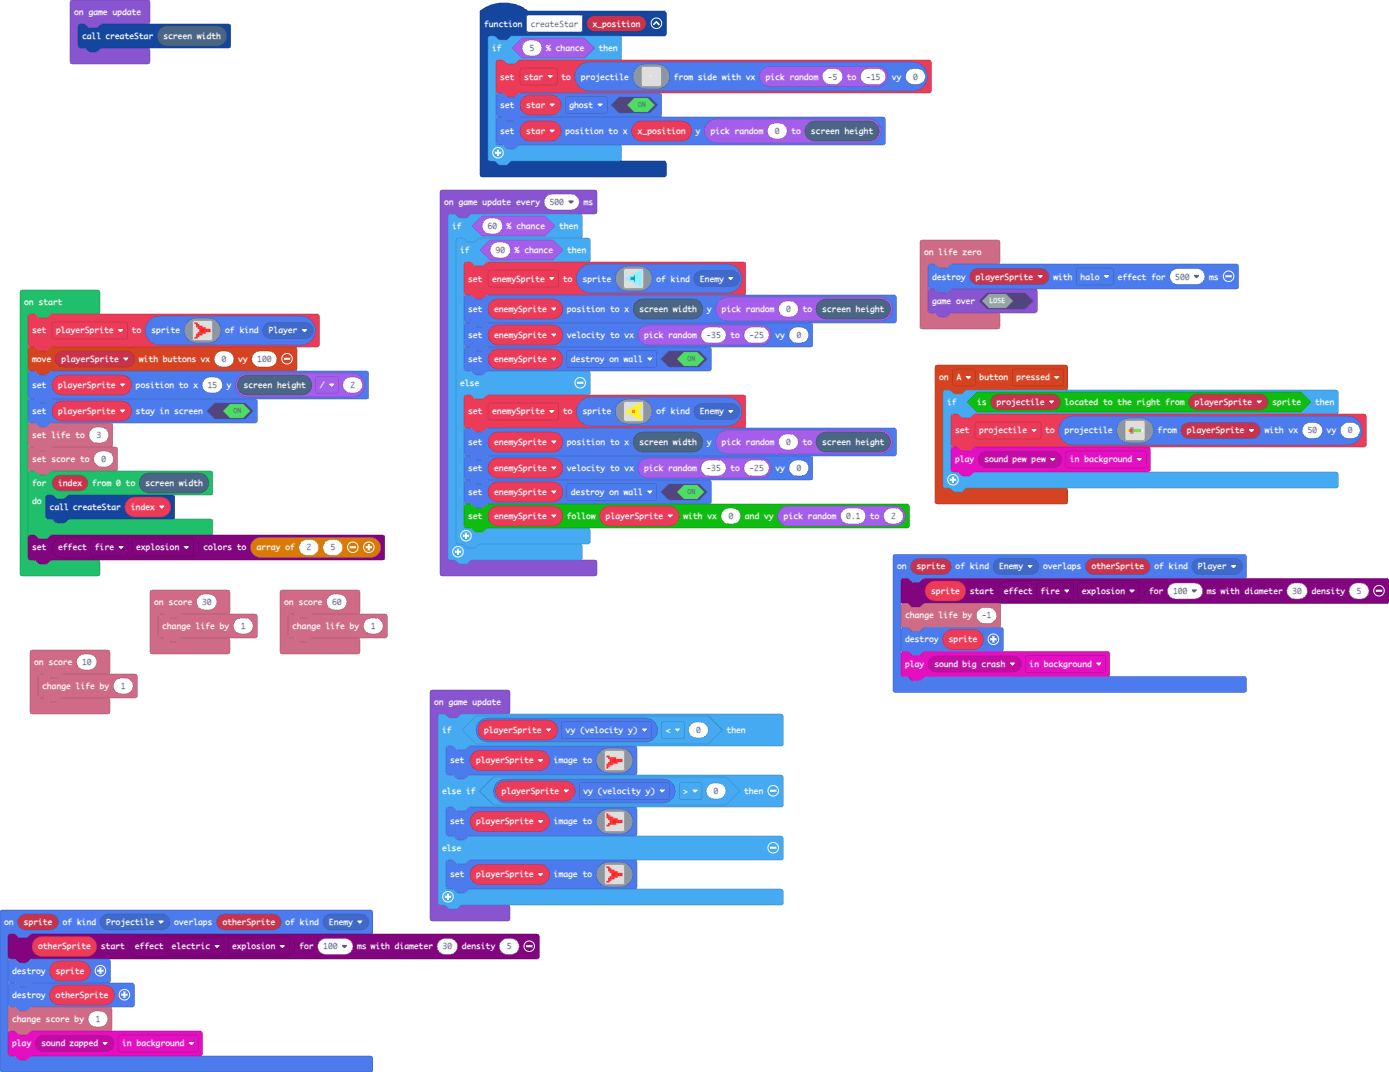
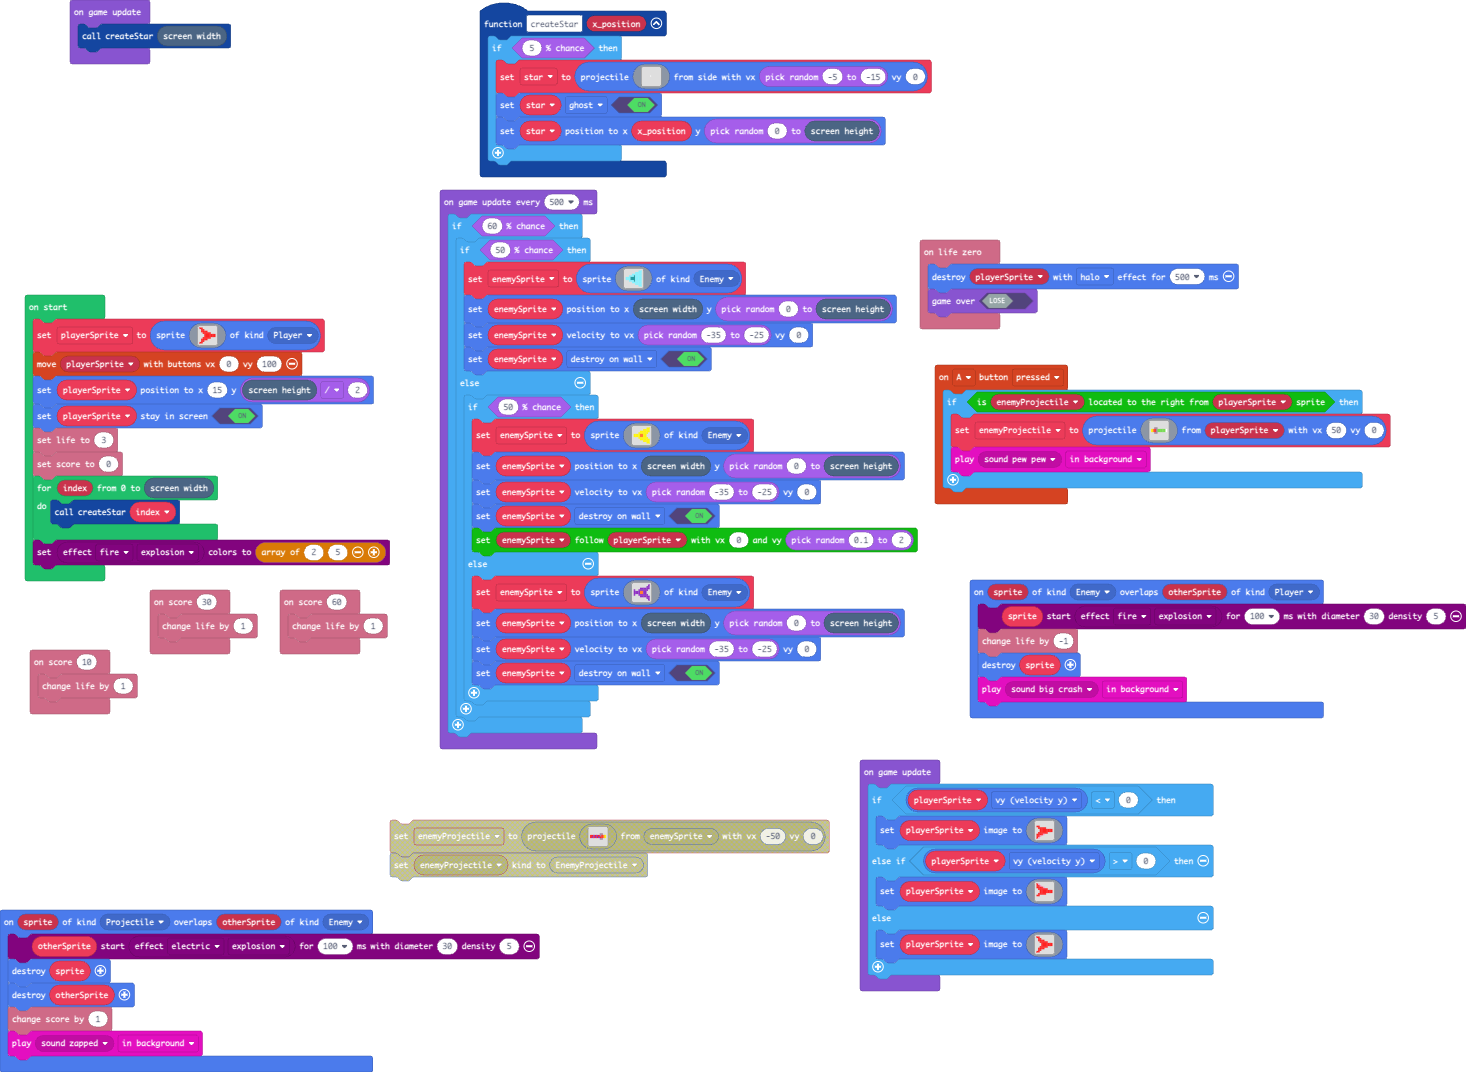
Working on runEvery

Changed region(s): [[0.0, 0.0, 1.0, 0.9851], [0.031, 0.0, 0.1857, 0.0616], [0.2477, 0.9851, 0.2786, 1.0]]

diff --git a/main.ts b/main.ts
@@ -1,6 +1,9 @@
+namespace SpriteKind {
+    export const EnemyProjectile = SpriteKind.create()
+}
 controller.A.onEvent(ControllerButtonEvent.Pressed, function () {
-    if (custom.isRightFrom(projectile, playerSprite)) {
-        projectile = sprites.createProjectileFromSprite(img`
+    if (custom.isRightFrom(enemyProjectile, playerSprite)) {
+        enemyProjectile = sprites.createProjectileFromSprite(img`
             . . . . . . . . . . 
             . . . . . . . . . . 
             . . . . . . . . . . 
@@ -67,7 +70,7 @@ sprites.onOverlap(SpriteKind.Projectile, SpriteKind.Enemy, function (sprite, oth
 })
 let enemySprite: Sprite = null
 let star: Sprite = null
-let projectile: Sprite = null
+let enemyProjectile: Sprite = null
 let playerSprite: Sprite = null
 playerSprite = sprites.create(img`
     2 2 . . . . . . . . 
@@ -137,7 +140,7 @@ game.onUpdate(function () {
 })
 game.onUpdateInterval(500, function () {
     if (Math.percentChance(60)) {
-        if (Math.percentChance(90)) {
+        if (Math.percentChance(50)) {
             enemySprite = sprites.create(img`
                 . . . . . . . . 9 9 
                 . . . . . . 9 9 9 9 
@@ -154,22 +157,40 @@ game.onUpdateInterval(500, function () {
             enemySprite.setVelocity(randint(-35, -25), 0)
             enemySprite.setFlag(SpriteFlag.DestroyOnWall, true)
         } else {
-            enemySprite = sprites.create(img`
-                . . . . . . . . 5 5 
-                . . . . . . 5 5 5 5 
-                . . . . 5 5 5 5 5 5 
-                . . . 5 5 5 5 5 5 . 
-                5 5 5 5 4 4 5 5 . . 
-                5 5 5 5 4 4 5 5 . . 
-                . . . 5 5 5 5 5 5 . 
-                . . . . 5 5 5 5 5 5 
-                . . . . . . 5 5 5 5 
-                . . . . . . . . 5 5 
-                `, SpriteKind.Enemy)
-            enemySprite.setPosition(scene.screenWidth(), randint(0, scene.screenHeight()))
-            enemySprite.setVelocity(randint(-35, -25), 0)
-            enemySprite.setFlag(SpriteFlag.DestroyOnWall, true)
-            custom.follow(enemySprite, playerSprite, 0, randint(0.1, 2))
+            if (Math.percentChance(50)) {
+                enemySprite = sprites.create(img`
+                    . . . . . . . . 5 5 
+                    . . . . . . 5 5 5 5 
+                    . . . . 5 5 5 5 5 5 
+                    . . . 5 5 5 5 5 5 . 
+                    5 5 5 5 4 4 5 5 . . 
+                    5 5 5 5 4 4 5 5 . . 
+                    . . . 5 5 5 5 5 5 . 
+                    . . . . 5 5 5 5 5 5 
+                    . . . . . . 5 5 5 5 
+                    . . . . . . . . 5 5 
+                    `, SpriteKind.Enemy)
+                enemySprite.setPosition(scene.screenWidth(), randint(0, scene.screenHeight()))
+                enemySprite.setVelocity(randint(-35, -25), 0)
+                enemySprite.setFlag(SpriteFlag.DestroyOnWall, true)
+                custom.follow(enemySprite, playerSprite, 0, randint(0.1, 2))
+            } else {
+                enemySprite = sprites.create(img`
+                    . . . . . . . . . a 
+                    . . . . . . . . a a 
+                    . . . . a a a a a a 
+                    a . . a a a a a a . 
+                    a a a a 4 4 a a . . 
+                    a a a a 4 4 a a . . 
+                    a . . a a a a a a . 
+                    . . . . a a a a a a 
+                    . . . . . . . . a a 
+                    . . . . . . . . . a 
+                    `, SpriteKind.Enemy)
+                enemySprite.setPosition(scene.screenWidth(), randint(0, scene.screenHeight()))
+                enemySprite.setVelocity(randint(-35, -25), 0)
+                enemySprite.setFlag(SpriteFlag.DestroyOnWall, true)
+            }
         }
     }
 })

diff --git a/custom.ts b/custom.ts
@@ -46,6 +46,15 @@ namespace custom {
         });
     }
 
+    //% block="every $interval ms"
+    //% interval.defl=1
+    //% inlineInputMode=inline
+    //% handlerStatement
+    export function runEvery(interval: number, handler: () => void): void {
+        game.onUpdateInterval(interval, handler);
+    }
+
+
     let setup: boolean = false;
     //% block
     export function drawRectangle(): void {
